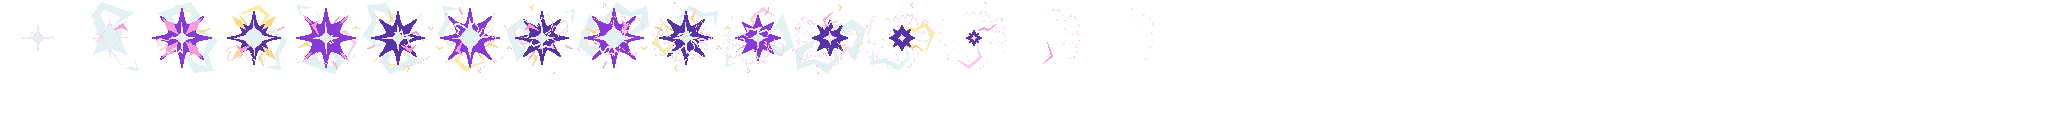
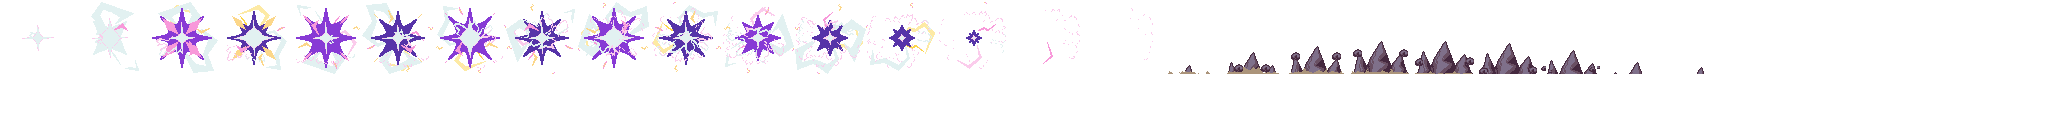
Trasteando con hechizos

Changed region(s): [[0.5625, 0.375, 0.8125, 0.5938]]

diff --git a/core/src/com/twilightheroes/game/ecs/systems/SpellSystem.java b/core/src/com/twilightheroes/game/ecs/systems/SpellSystem.java
@@ -7,9 +7,12 @@ import com.badlogic.gdx.assets.AssetManager;
 import com.badlogic.gdx.graphics.Texture;
 import com.badlogic.gdx.graphics.g2d.TextureAtlas;
 import com.badlogic.gdx.math.Vector2;
+import com.badlogic.gdx.physics.box2d.Body;
+import com.badlogic.gdx.physics.box2d.BodyDef;
 import com.badlogic.gdx.physics.box2d.Fixture;
 import com.badlogic.gdx.physics.box2d.FixtureDef;
 import com.badlogic.gdx.physics.box2d.PolygonShape;
+import com.badlogic.gdx.physics.box2d.Shape;
 import com.badlogic.gdx.utils.Timer;
 import com.twilightheroes.game.TwilightHeroes;
 import com.twilightheroes.game.ecs.components.AnimationComponent;
@@ -74,14 +77,11 @@ public class SpellSystem extends IteratingSystem {
                 switch (spell) {
 
                     case shockingGrasp:
-                        for (int i = 0; i < 5; i++) {
-                            float delay = i * 0.5f; // Ajusta el valor del retraso según tus necesidades
-                            createDelayedAttackAndVFX(texture, b2body, attackComponent, 5f, 6f, 16f * (i + 1), 0, player, spellComponent, entity, delay, i);
-                        }
+                        createAttackFixture(texture, b2body, attackComponent, 20f, 6f, 16f, 0f, player);
+                        createVFX(spellComponent.spellToCast, entity,1);
+
                         break;
 
-                        //createAttackFixture(texture, b2body, attackComponent, 20f, 6f, 16f, 0f, player);
-                        //createVFX(spellComponent, entity);
 
 
                     case healingSigil:
@@ -105,7 +105,10 @@ public class SpellSystem extends IteratingSystem {
 
                     case earthSpike:
 
-
+                        for (int i = 0; i < 5; i++) {
+                            float delay = i * 0.5f; // Ajusta el valor del retraso según tus necesidades
+                            createDelayedAttackAndVFX(texture, b2body, attackComponent, 10f, 5f, 16f * (i+1), 0, player, spellComponent, entity, delay, i+1);
+                        }
                         break;
                 }
                 spellComponent.casting = false;
@@ -149,10 +152,11 @@ public class SpellSystem extends IteratingSystem {
             B2dBodyComponent b2body = Mappers.b2dCom.get(casterEntity);
 
 
+
             texture.sprite.setTexture(manager.get("spells/spellsVFX/" + SpellList.spells.values()[spell.id].name() + ".png", Texture.class));
-            float offsetX = textureCaster.runningRight ? 30f / TwilightHeroes.PPM : -30f / TwilightHeroes.PPM;
+            float offsetX = textureCaster.runningRight ? 16f / TwilightHeroes.PPM : -16f / TwilightHeroes.PPM;
             offsetX *= i;
-            texture.sprite.setSize(40/TwilightHeroes.PPM,40/TwilightHeroes.PPM);
+            texture.sprite.setSize(20/TwilightHeroes.PPM,20/TwilightHeroes.PPM);
             texture.sprite.setPosition(b2body.body.getPosition().x - b2body.width/TwilightHeroes.PPM + offsetX , b2body.body.getPosition().y - 10/TwilightHeroes.PPM);
             animationComponent.animations.put(StateComponent.STATE_VFX, AnimationMaker.crearAnimacion(manager.get("spells/spellsVFX/spells.atlas", TextureAtlas.class), SpellList.spells.values()[spell.id].name(), spell.vfx.nFrames, spell.vfx.frameDuration));
             stateComponent.set(StateComponent.STATE_VFX);
@@ -170,7 +174,8 @@ public class SpellSystem extends IteratingSystem {
         PolygonShape attackShape = new PolygonShape();
         float auxOffsetX = texture.runningRight ? offsetX : -offsetX;
 
-        attackShape.setAsBox(hx / TwilightHeroes.PPM, hy / TwilightHeroes.PPM, new Vector2(auxOffsetX / TwilightHeroes.PPM, offsetY / TwilightHeroes.PPM), 0);
+
+        attackShape.setAsBox(hx / TwilightHeroes.PPM, hy     / TwilightHeroes.PPM, new Vector2(auxOffsetX / TwilightHeroes.PPM, offsetY / TwilightHeroes.PPM), 0);
         FixtureDef attackFixtureDef = new FixtureDef();
         attackFixtureDef.shape = attackShape;
         attackFixtureDef.filter.categoryBits = TwilightHeroes.HITBOX_BIT;
@@ -188,6 +193,7 @@ public class SpellSystem extends IteratingSystem {
         attackShape.dispose();
         b2dbody.body.applyLinearImpulse(new Vector2(0f, -0.1f), b2dbody.body.getWorldCenter(), true);
     }
+
 
 
 }

diff --git a/core/src/com/twilightheroes/game/screens/MagicScreen.java b/core/src/com/twilightheroes/game/screens/MagicScreen.java
@@ -257,10 +257,10 @@ public class MagicScreen implements Screen {
 
 
         if (selectedSlot.getName().equals("Button1")) {
-            spellComponent.spell1 = new Spell(SpellList.spells.valueOf(jsonSpell.get("spellId").asString()).ordinal(), jsonSpell.get("manaCost").asInt(), jsonSpell.get("castingTime").asFloat(), new SpellVFX(16, 64));
+            spellComponent.spell1 = new Spell(SpellList.spells.valueOf(jsonSpell.get("spellId").asString()).ordinal(), jsonSpell.get("manaCost").asInt(), jsonSpell.get("castingTime").asFloat(), new SpellVFX(9, 9));
             parent.playerSettings.spell1 = jsonSpell.get("spellId").asString();
         } else {
-            spellComponent.spell2 = new Spell(SpellList.spells.valueOf(jsonSpell.get("spellId").asString()).ordinal(), jsonSpell.get("manaCost").asInt(), jsonSpell.get("castingTime").asFloat(), new SpellVFX(16, 64));
+            spellComponent.spell2 = new Spell(SpellList.spells.valueOf(jsonSpell.get("spellId").asString()).ordinal(), jsonSpell.get("manaCost").asInt(), jsonSpell.get("castingTime").asFloat(), new SpellVFX(9, 9));
             parent.playerSettings.spell2 = jsonSpell.get("spellId").asString();
 
         }

diff --git a/core/src/com/twilightheroes/game/tools/B2AssetManager.java b/core/src/com/twilightheroes/game/tools/B2AssetManager.java
@@ -51,7 +51,10 @@ public class B2AssetManager {
         manager.load("spells/shockingGraspChecked.png", Texture.class);
         manager.load("spells/spellsVFX/spells.atlas", TextureAtlas.class);
         manager.load("spells/spellsVFX/shockingGrasp.png", Texture.class);
+        manager.load("spells/spellsVFX/earthSpike.png", Texture.class);
 
+        manager.load("spells/earthSpike.png", Texture.class);
+        manager.load("spells/earthSpikeChecked.png", Texture.class);
 
         manager.load("arrow.atlas", TextureAtlas.class);
         manager.load("arrow.png", Texture.class);
